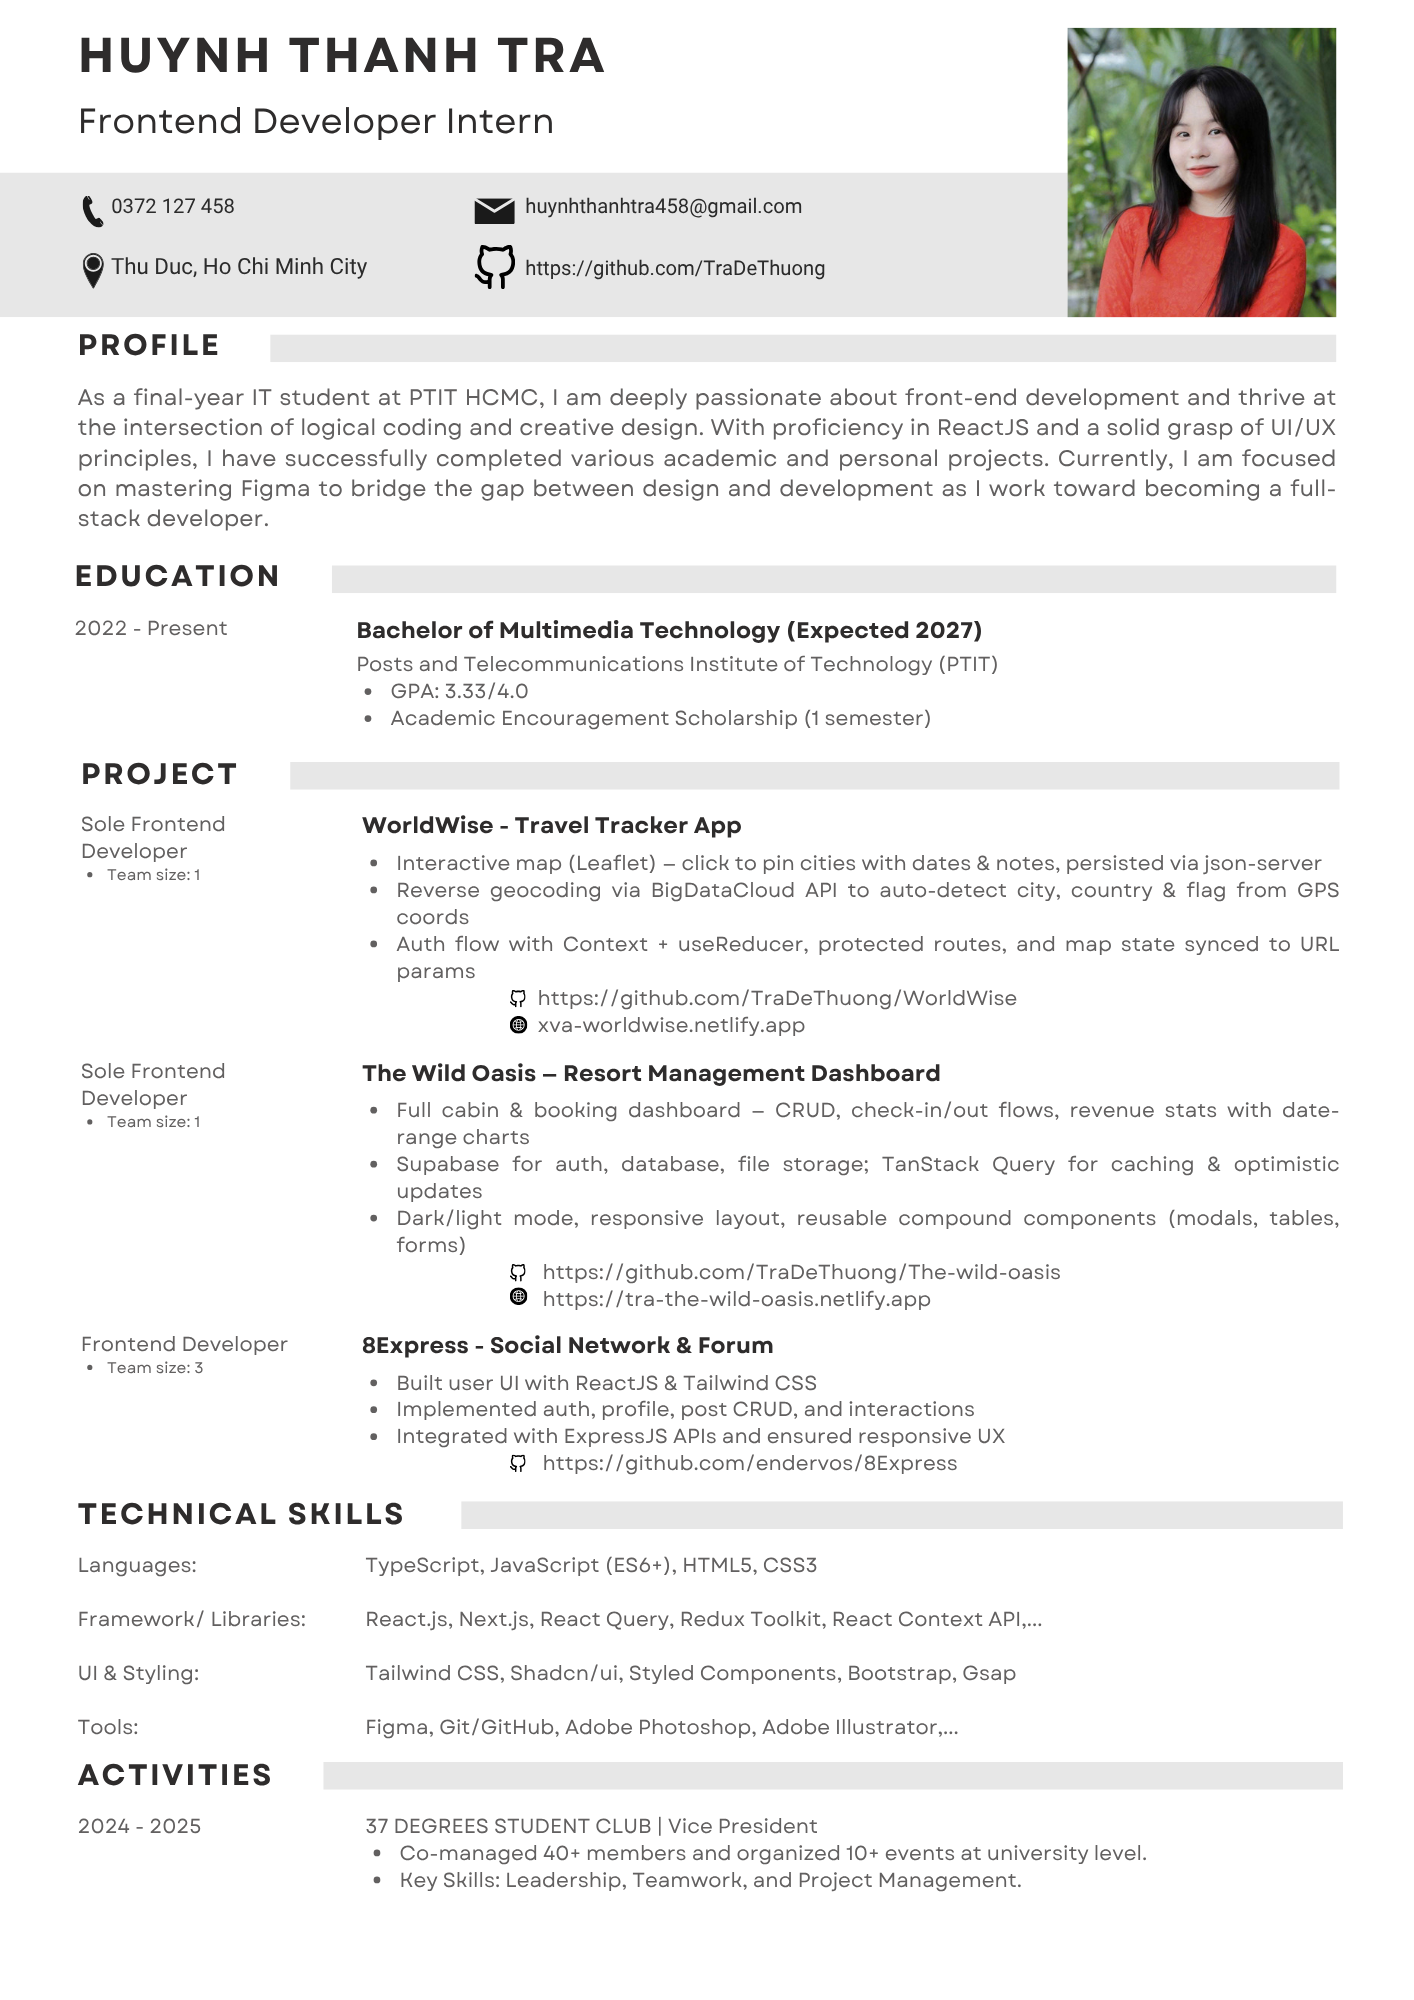
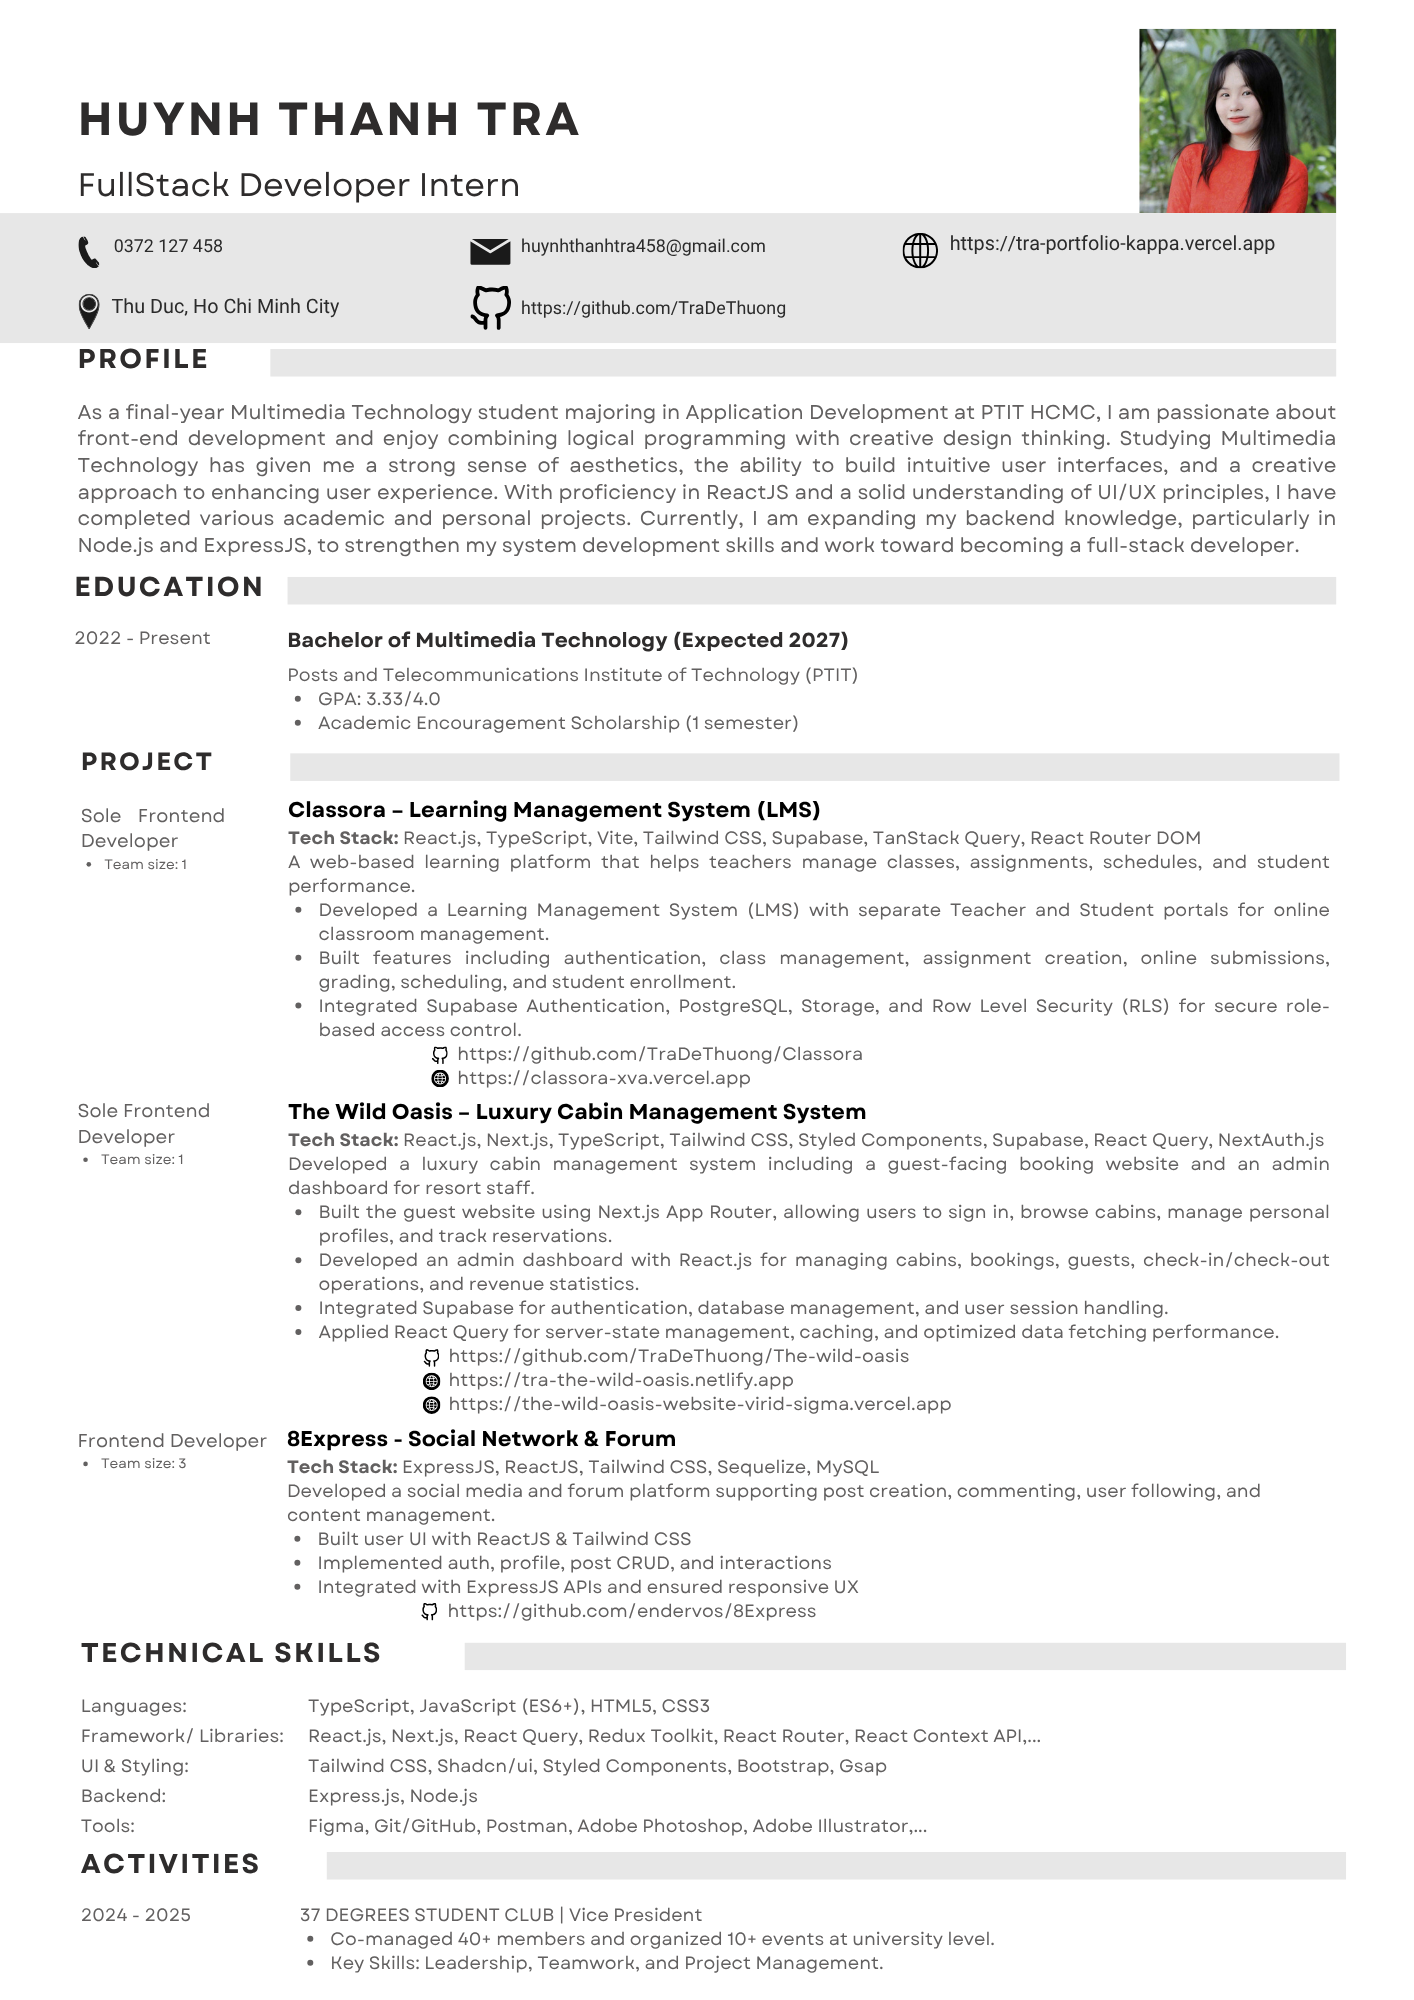
cv

diff --git a/index.html b/index.html
@@ -2,7 +2,7 @@
 <html lang="en">
   <head>
     <meta charset="UTF-8" />
-    <link rel="icon" type="image/svg+xml" href="/favicon.svg" />
+    <link rel="icon" type="image/jpg" href="Tra.jpg" />
     <meta name="viewport" content="width=device-width, initial-scale=1.0" />
     <meta
       name="description"
